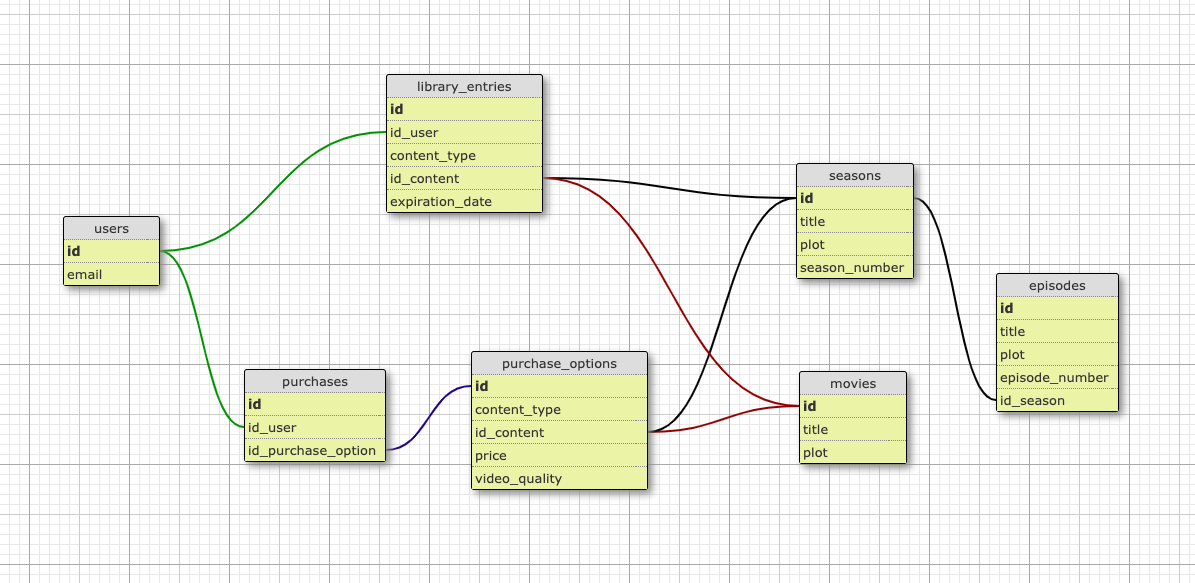
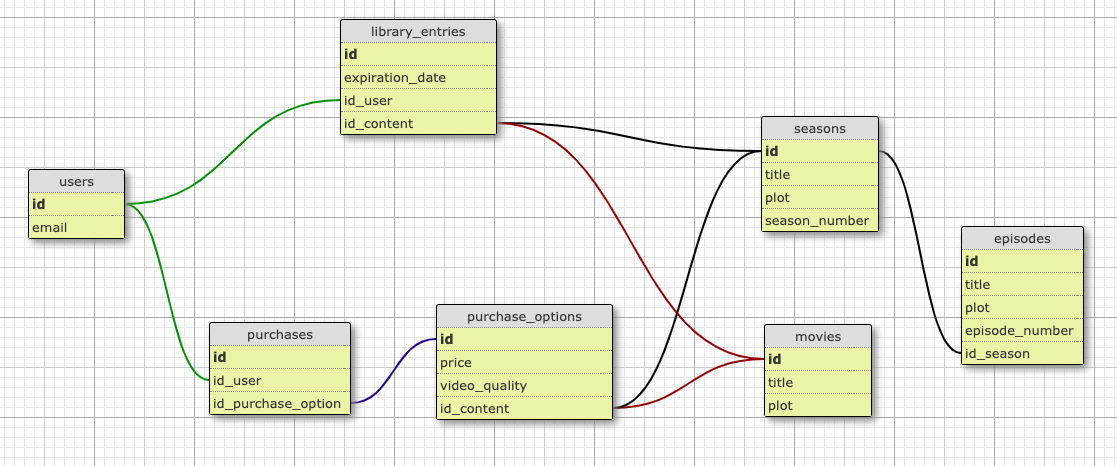
Schema created and two migration files modified before running rails db:migrate.

diff --git a/db/schema.rb b/db/schema.rb
@@ -10,8 +10,73 @@
 #
 # It's strongly recommended that you check this file into your version control system.
 
-ActiveRecord::Schema[7.0].define(version: 0) do
+ActiveRecord::Schema[7.0].define(version: 2023_07_25_132311) do
   # These are extensions that must be enabled in order to support this database
   enable_extension "plpgsql"
 
+  create_table "episodes", force: :cascade do |t|
+    t.string "title"
+    t.string "plot"
+    t.integer "episode_number"
+    t.bigint "season_id", null: false
+    t.datetime "created_at", null: false
+    t.datetime "updated_at", null: false
+    t.index ["season_id"], name: "index_episodes_on_season_id"
+  end
+
+  create_table "library_entries", force: :cascade do |t|
+    t.date "expiration_date"
+    t.bigint "user_id", null: false
+    t.string "content_type", null: false
+    t.bigint "content_id", null: false
+    t.datetime "created_at", null: false
+    t.datetime "updated_at", null: false
+    t.index ["content_type", "content_id"], name: "index_library_entries_on_content"
+    t.index ["user_id"], name: "index_library_entries_on_user_id"
+  end
+
+  create_table "movies", force: :cascade do |t|
+    t.string "title"
+    t.string "plot"
+    t.datetime "created_at", null: false
+    t.datetime "updated_at", null: false
+  end
+
+  create_table "purchase_options", force: :cascade do |t|
+    t.decimal "price"
+    t.string "video_quality"
+    t.string "content_type", null: false
+    t.bigint "content_id", null: false
+    t.datetime "created_at", null: false
+    t.datetime "updated_at", null: false
+    t.index ["content_type", "content_id"], name: "index_purchase_options_on_content"
+  end
+
+  create_table "purchases", force: :cascade do |t|
+    t.bigint "user_id", null: false
+    t.bigint "purchase_option_id", null: false
+    t.datetime "created_at", null: false
+    t.datetime "updated_at", null: false
+    t.index ["purchase_option_id"], name: "index_purchases_on_purchase_option_id"
+    t.index ["user_id"], name: "index_purchases_on_user_id"
+  end
+
+  create_table "seasons", force: :cascade do |t|
+    t.string "title"
+    t.string "plot"
+    t.integer "season_number"
+    t.datetime "created_at", null: false
+    t.datetime "updated_at", null: false
+  end
+
+  create_table "users", force: :cascade do |t|
+    t.string "email"
+    t.datetime "created_at", null: false
+    t.datetime "updated_at", null: false
+  end
+
+  add_foreign_key "episodes", "seasons"
+  add_foreign_key "library_entries", "users"
+  add_foreign_key "purchases", "purchase_options"
+  add_foreign_key "purchases", "users"
 end

diff --git a/db/migrate/20230725132311_create_library_entries.rb b/db/migrate/20230725132311_create_library_entries.rb
@@ -1,7 +1,6 @@
 class CreateLibraryEntries < ActiveRecord::Migration[7.0]
   def change
     create_table :library_entries do |t|
-      t.string :content_type
       t.date :expiration_date
       t.references :user, null: false, foreign_key: true
       t.references :content, polymorphic: true, null: false

diff --git a/db/migrate/20230725131915_create_purchase_options.rb b/db/migrate/20230725131915_create_purchase_options.rb
@@ -1,7 +1,6 @@
 class CreatePurchaseOptions < ActiveRecord::Migration[7.0]
   def change
     create_table :purchase_options do |t|
-      t.string :content_type
       t.decimal :price
       t.string :video_quality
       t.references :content, polymorphic: true, null: false
